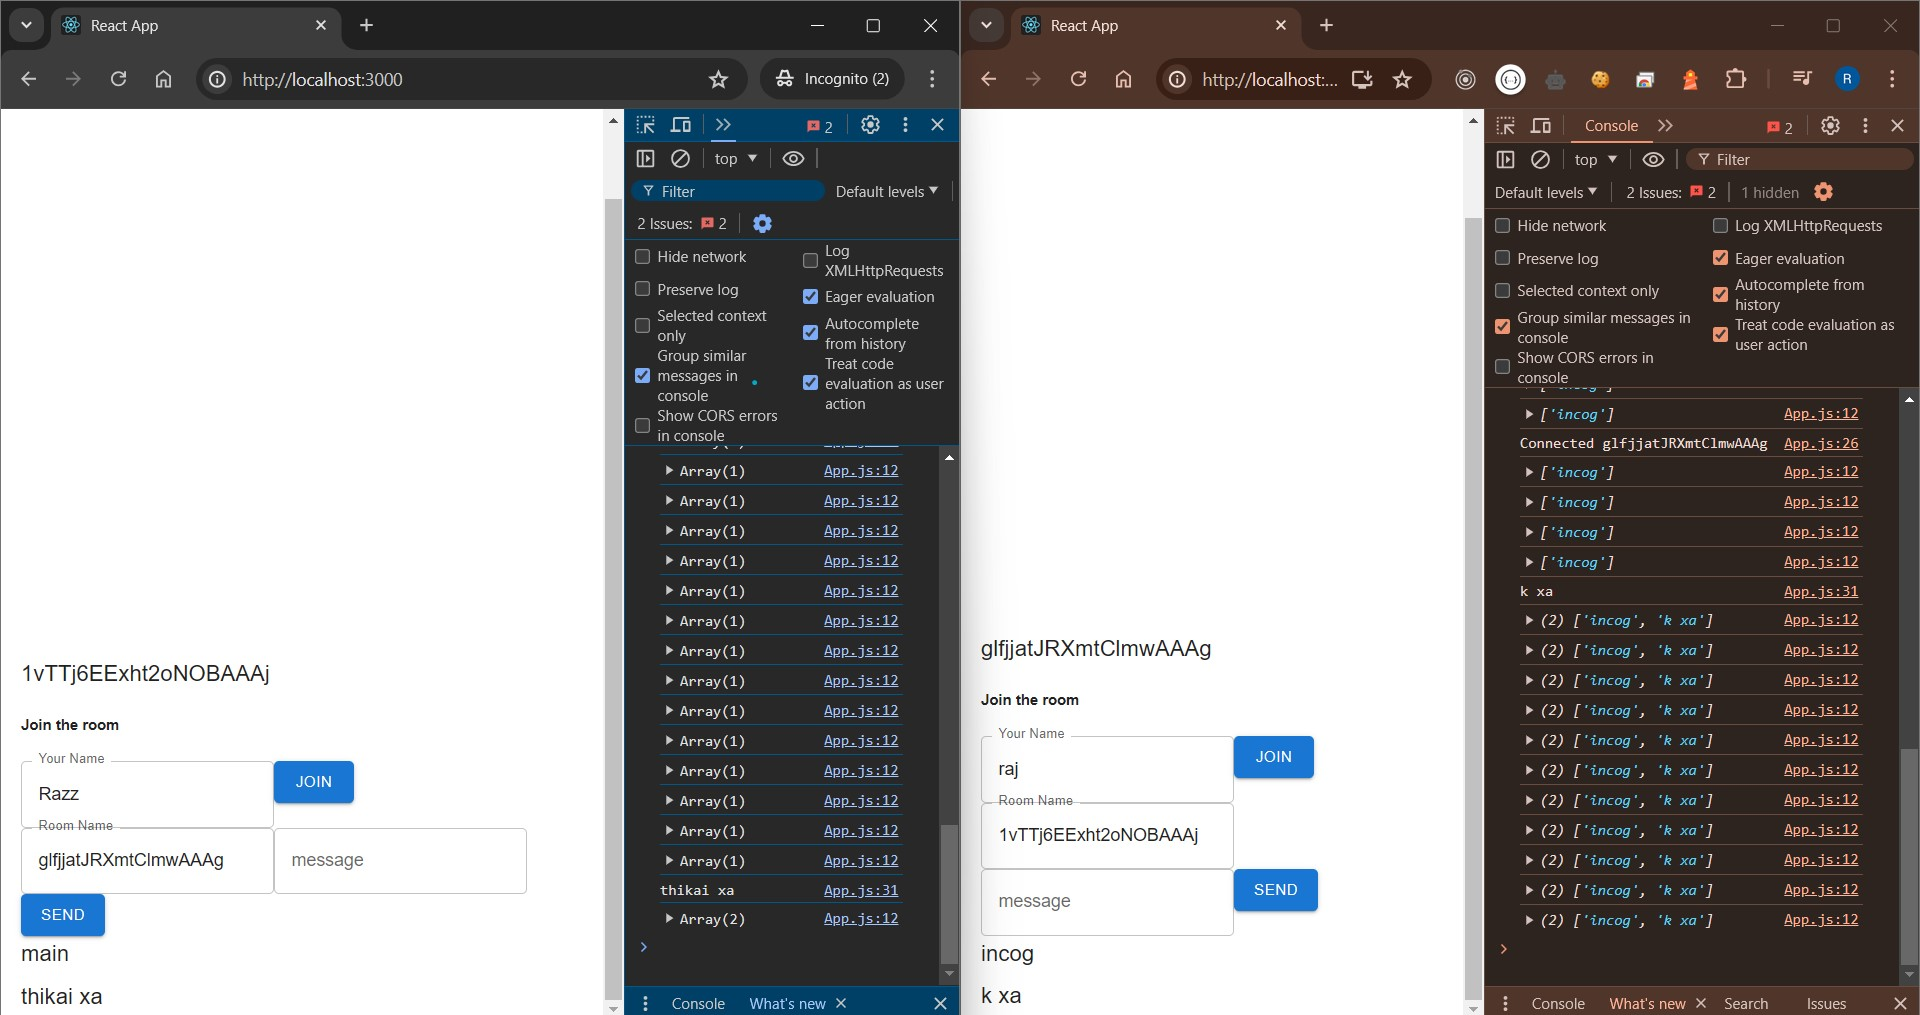
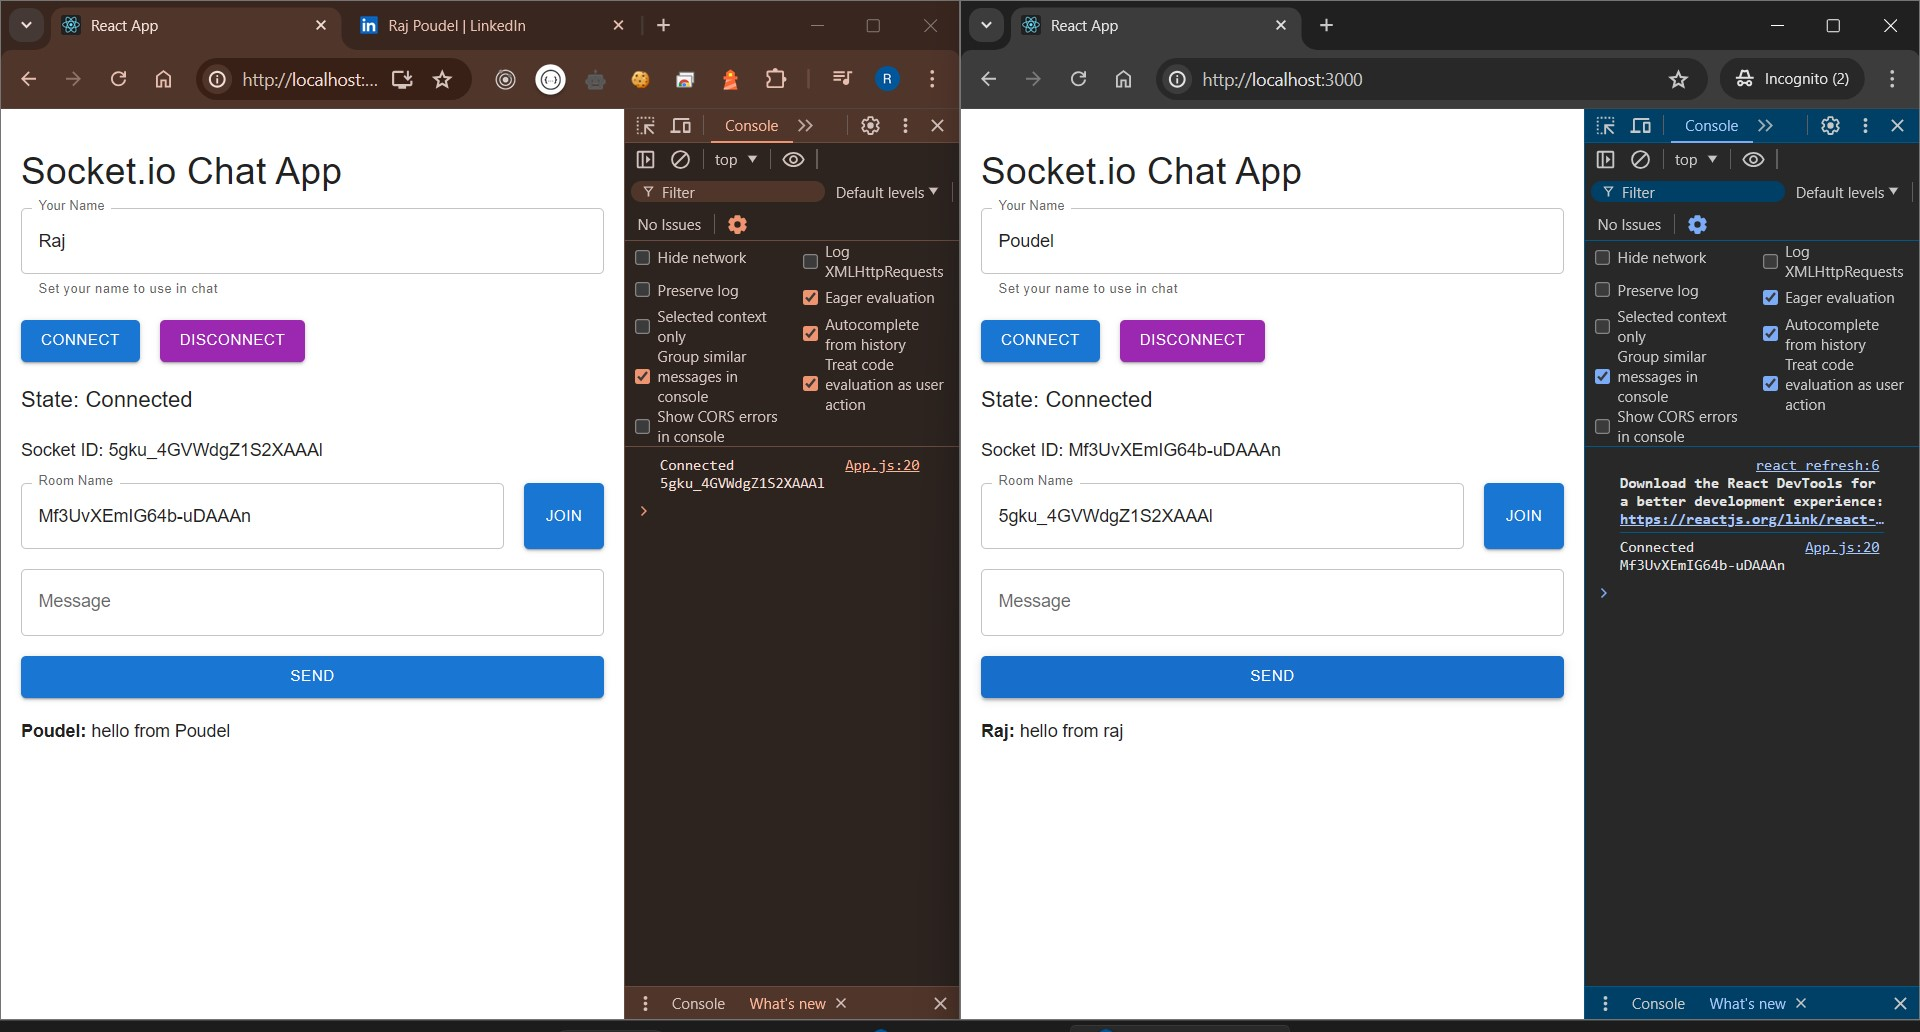
result and updated system

diff --git a/day12/frontend/src/App.js b/day12/frontend/src/App.js
@@ -1,93 +1,112 @@
-import { Box, Button, Container, Stack, TextField, Typography } from "@mui/material";
+// src/App.js
 import React, { useEffect, useMemo, useState } from "react";
+import { Box, Button, Container, Stack, TextField, Typography } from "@mui/material";
 import { io } from "socket.io-client";
+import { Events } from './components/Events';
+import { MyForm } from './components/MyForm';
+import { ConnectionManager } from './components/ConnectionManager';
+import { ConnectionState } from './components/ConnectionState';
 
 const App = () => {
   const socket = useMemo(() => io("http://localhost:5000/"), []);
-  const [message, setMessage] = useState("");
-  const [room, setRoom] = useState("");
+  const [userName, setUserName] = useState(""); // User-defined name
   const [socketId, setSocketId] = useState("");
   const [messages, setMessages] = useState([]);
-  const [roomName, setRoomName] = useState('');
-  console.log(messages);
-  const handleSubmit = (e) => {
-    e.preventDefault();
-    socket.emit("message", {message,room});
-    setMessage("");
-  };
-  const joinRoomHandler = (e) => {
-    e.preventDefault();
-    socket.emit("join-room",roomName);
-    setRoomName("");
+  const [isConnected, setIsConnected] = useState(false);
+  const [roomName, setRoomName] = useState(""); // Room the user has joined
 
-  };
   useEffect(() => {
     socket.on("connect", () => {
       console.log("Connected", socket.id);
       setSocketId(socket.id);
+      setIsConnected(true);
     });
 
-    socket.on("receive-msg", (s) => {
-      console.log(s);
-      setMessages((messages)=> [...messages, s])
-    });
-    
-    socket.on("welcome", (s) => {
-      console.log(s);
+    socket.on("disconnect", () => {
+      setIsConnected(false);
     });
 
+    socket.on("receive-msg", (msg) => {
+      setMessages((messages) => [...messages, msg]);
+    });
 
-    return () => {};
-  }, []);
+    socket.on("welcome", (message) => {
+      console.log(message);
+    });
+
+    return () => {
+      socket.off("connect");
+      socket.off("disconnect");
+      socket.off("receive-msg");
+      socket.off("welcome");
+    };
+  }, [socket]);
+
+  const handleSubmit = (message) => {
+    if (userName && roomName) {
+      // Emit message along with user's name and the current room
+      socket.emit("message", { message, room: roomName, sender: userName });
+    } else {
+      alert("Please enter your name and join a room before sending a message.");
+    }
+  };
+
+  const joinRoomHandler = (e) => {
+    e.preventDefault();
+    if (roomName) {
+      socket.emit("join-room", roomName);
+      setMessages([]); // Clear previous messages on room change
+    } else {
+      alert("Please enter a room name.");
+    }
+  };
 
   return (
     <Container maxWidth="sm">
-      <Box sx={{height:500}}/>
-      
-      <Typography variant="h6" component="div" gutterBottom>
-        {socketId}
-      </Typography>
-      <form onSubmit={joinRoomHandler}>
-        <h5>Join the room</h5>
-        <TextField
-          value={roomName}
-          onChange={(e) => setRoomName(e.target.value)}
-          id="outlined-basic"
-          label="Your Name"
-          variant="outlined"
-        />
-         <Button variant="contained" color="primary" type="submit">
-          Join
-        </Button>
-      </form>
-      <form onSubmit={handleSubmit}>
-        <TextField
-          value={room}
-          onChange={(e) => setRoom(e.target.value)}
-          id="outlined-basic"
-          label="Room Name"
-          variant="outlined"
-        />
-        <TextField
-          value={message}
-          onChange={(e) => setMessage(e.target.value)}
-          id="outlined-basic"
-          label="message"
-          variant="outlined"
-        />
-        <Button variant="contained" color="primary" type="submit">
-          Send
-        </Button>
-      </form>
-      <Stack>
-        
-        {messages.map((m,i) =>(
-          <Typography key={i} variant="h6" component="div" gutterBottom>
-            {m}
+      <Box sx={{ my: 4 }}>
+        <Typography variant="h4" component="h1" gutterBottom>
+          Socket.io Chat App
+        </Typography>
 
+        <Stack spacing={2}>
+          <TextField
+            value={userName}
+            onChange={(e) => setUserName(e.target.value)}
+            label="Your Name"
+            variant="outlined"
+            fullWidth
+            helperText="Set your name to use in chat"
+          />
+          
+          <ConnectionManager
+            onConnect={() => socket.connect()}
+            onDisconnect={() => socket.disconnect()}
+          />
+          <ConnectionState isConnected={isConnected} />
+          <Typography variant="body1" component="div" gutterBottom>
+            Socket ID: {socketId}
           </Typography>
-        ))}
-      </Stack>
+
+          <form onSubmit={joinRoomHandler}>
+            <Stack spacing={2} direction="row">
+              <TextField
+                value={roomName}
+                onChange={(e) => setRoomName(e.target.value)}
+                label="Room Name"
+                variant="outlined"
+                fullWidth
+              />
+              <Button variant="contained" color="primary" type="submit">
+                Join
+              </Button>
+            </Stack>
+          </form>
+
+          <MyForm onSubmit={handleSubmit} />
+
+          <Events events={messages} />
+        </Stack>
+      </Box>
     </Container>
   );
 };

diff --git a/day12/frontend/src/components/MyForm.js b/day12/frontend/src/components/MyForm.js
@@ -1,25 +1,30 @@
+// src/components/MyForm.js
 import React, { useState } from 'react';
-import { socket } from '../socket';
+import { Button, TextField, Stack } from '@mui/material';
 
-export function MyForm() {
-  const [value, setValue] = useState('');
-  const [isLoading, setIsLoading] = useState(false);
+export function MyForm({ onSubmit }) {
+  const [message, setMessage] = useState('');
 
-  function onSubmit(event) {
-    event.preventDefault();
-    setIsLoading(true);
-
-    setTimeout(() => {
-      setIsLoading(false);
-    }, 5000);
-    
-  }
+  const handleSubmit = (e) => {
+    e.preventDefault();
+    onSubmit(message);
+    setMessage('');
+  };
 
   return (
-    <form onSubmit={ onSubmit }>
-      <input onChange={ e => setValue(e.target.value) } />
-
-      <button type="submit" disabled={ isLoading }>Submit</button>
+    <form onSubmit={handleSubmit}>
+      <Stack spacing={2}>
+        <TextField
+          value={message}
+          onChange={(e) => setMessage(e.target.value)}
+          label="Message"
+          variant="outlined"
+          fullWidth
+        />
+        <Button variant="contained" color="primary" type="submit">
+          Send
+        </Button>
+      </Stack>
     </form>
   );
 }

diff --git a/day12/server-side/index.js b/day12/server-side/index.js
@@ -17,22 +17,23 @@ const io = new Server(server,{
 app.get('/', (req, res) => {
   res.send('Welcome')
 });
-// Handle WebSocket connections
 io.on('connection', (socket) => {
-    console.log('userId:' ,socket.id);
+  console.log('User connected:', socket.id);
 
-    socket.on('message', (data) =>{
-      console.log(data.room, data.message);
-      io.to(data.room).emit('receive-msg',data.message)
-    });
-    socket.on('join-room', (room) =>{
-      socket.join(room)
-    });
-    
-    socket.on("disconnect", () =>{
-      console.log(`User disconnected: ${socket.id}`);
-    })
- 
+  socket.on('join-room', (room) => {
+    socket.join(room);
+    socket.to(room).emit('welcome', `${socket.id} has joined the room`);
+  });
+
+  socket.on('message', ({ message, room, sender }) => {
+    const msg = { sender, message };
+    console.log('Message received:', msg);
+    io.to(room).emit('receive-msg', msg);
+  });
+
+  socket.on('disconnect', () => {
+    console.log('User disconnected:', socket.id);
+  });
 });
 
 // Start the server

diff --git a/day12/frontend/src/components/ConnectionManager.js b/day12/frontend/src/components/ConnectionManager.js
@@ -1,19 +1,16 @@
+// src/components/ConnectionManager.js
 import React from 'react';
-import { socket } from '../socket';
+import { Button, Stack } from '@mui/material';
 
-export function ConnectionManager() {
-  function connect() {
-    socket.connect();
-  }
-
-  function disconnect() {
-    socket.disconnect();
-  }
-
+export function ConnectionManager({ onConnect, onDisconnect }) {
   return (
-    <>
-      <button onClick={ connect }>Connect</button>
-      <button onClick={ disconnect }>Disconnect</button>
-    </>
+    <Stack spacing={2} direction="row">
+      <Button variant="contained" color="primary" onClick={onConnect}>
+        Connect
+      </Button>
+      <Button variant="contained" color="secondary" onClick={onDisconnect}>
+        Disconnect
+      </Button>
+    </Stack>
   );
 }

diff --git a/day12/frontend/src/components/Events.js b/day12/frontend/src/components/Events.js
@@ -1,13 +1,15 @@
+// src/components/Events.js
 import React from 'react';
+import { Stack, Typography } from '@mui/material';
 
 export function Events({ events }) {
   return (
-    <ul>
-    {
-      events.map((event, index) =>
-        <li key={ index }>{ event }</li>
-      )
-    }
-    </ul>
+    <Stack spacing={2}>
+      {events.map((event, index) => (
+        <Typography key={index} variant="body1">
+          <strong>{event.sender}:</strong> {event.message}
+        </Typography>
+      ))}
+    </Stack>
   );
 }

diff --git a/day12/frontend/src/components/ConnectionState.js b/day12/frontend/src/components/ConnectionState.js
@@ -1,5 +1,11 @@
+// src/components/ConnectionState.js
 import React from 'react';
+import { Typography } from '@mui/material';
 
 export function ConnectionState({ isConnected }) {
-  return <p>State: { '' + isConnected }</p>;
+  return (
+    <Typography variant="h6">
+      State: {isConnected ? 'Connected' : 'Disconnected'}
+    </Typography>
+  );
 }
